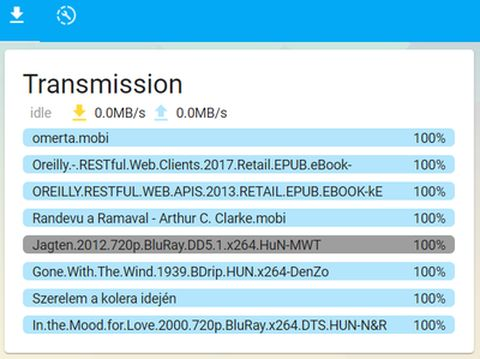
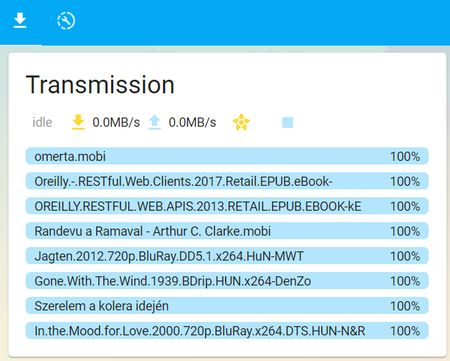
Update documentation

diff --git a/info.md b/info.md
@@ -7,6 +7,7 @@
 :w
 
 This Lovelace custom card displays torrents information provided by the Transmission Integration.
+It also supports turtle mode and start/stop of all torrents.
 
 #### Installation
 The easiest way to install it is through [HACS (Home Assistant Community Store)](https://custom-components.github.io/hacs/),
@@ -31,4 +32,4 @@ Please find below an example of ui-lovelace.yaml:
 
 
 Transmission idle, two torrents stopped:<br />
-![Transmission idle](https://raw.githubusercontent.com/amaximus/transmission-card/main/transmission_idle.png)
+![Transmission idle](https://raw.githubusercontent.com/amaximus/transmission-card/main/transmission_idle.jpg)

diff --git a/README.md b/README.md
@@ -32,4 +32,4 @@ Please find below an example of ui-lovelace.yaml:
 
 
 Transmission idle, two torrents stopped:<br />
-![Transmission idle](https://raw.githubusercontent.com/amaximus/transmission-card/main/transmission_idle.png)
+![Transmission idle](https://raw.githubusercontent.com/amaximus/transmission-card/main/transmission_idle.jpg)
